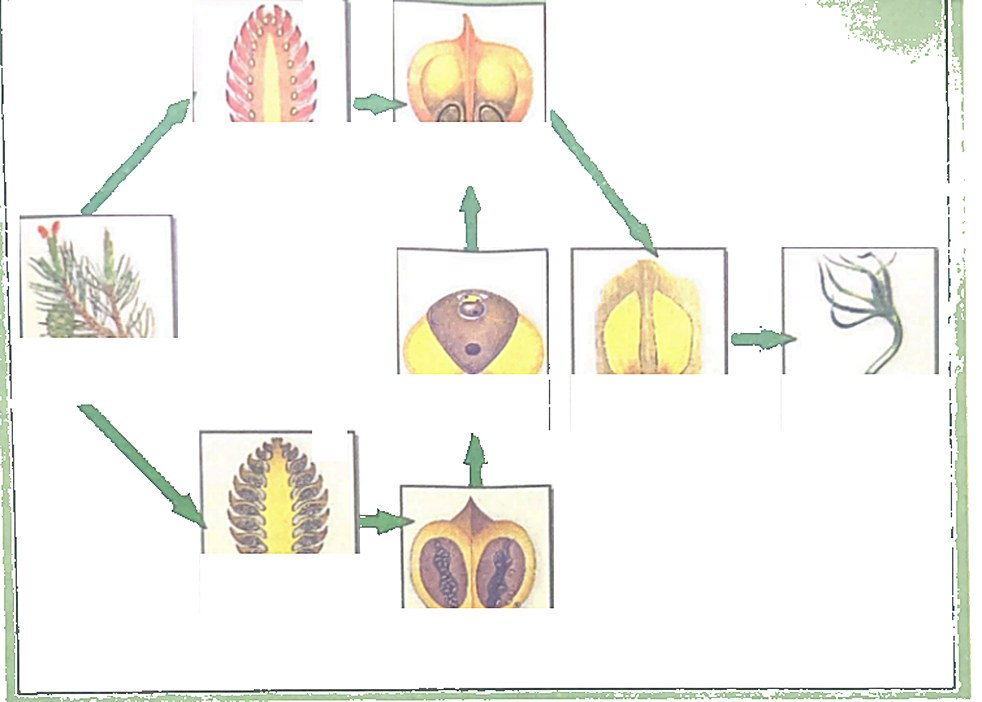
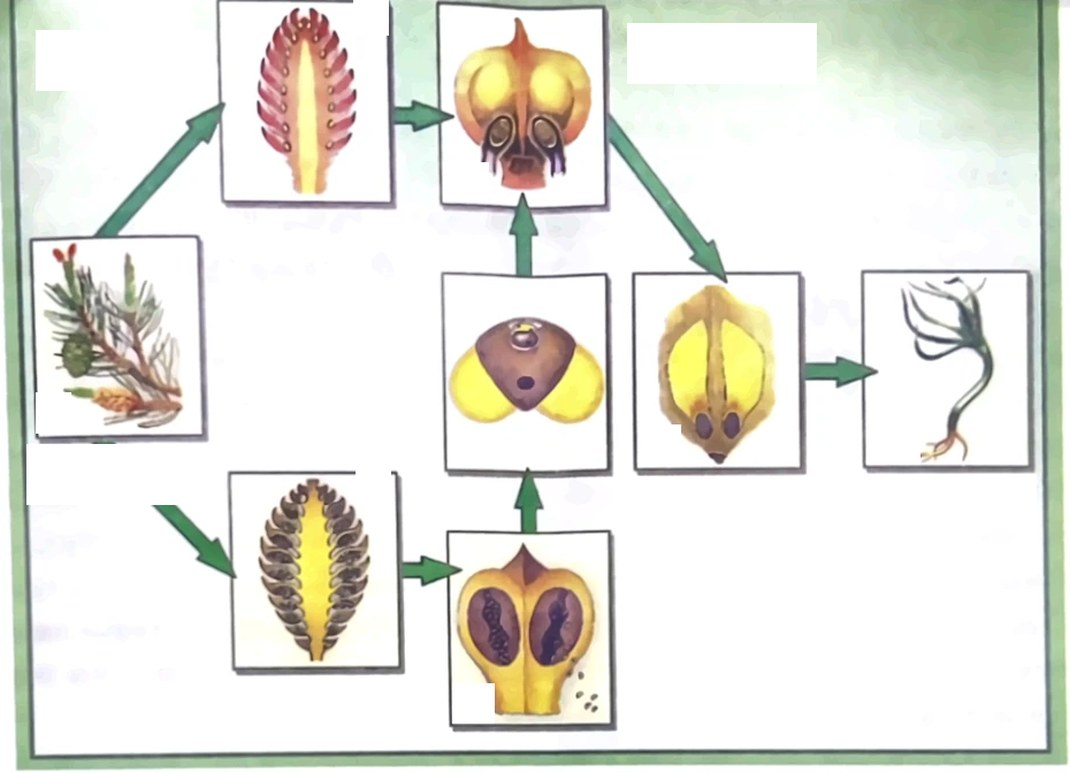
Суретпен жұмыс: «Қарағайдың көбеюі» суреті мұғалім жіберген анығырақ суретке ауыстырылды
Claude-Session: https://claude.ai/code/session_011AzLiSxkNsavkAqmMKmnLU

diff --git a/js/images.js b/js/images.js
@@ -24,7 +24,7 @@ window.IMAGE_TASKS = [
 {"id": "img-maize", "module": "botany", "title": "Жүгерінің аталық және аналық гүлшоғыры", "img": ["img/images/maize.jpg"], "options": ["Аталық гүлшоғыры", "Аналық гүлшоғыры"], "zones": [{"x": 3.59, "y": 6.88, "w": 33.7, "h": 13.12, "answer": 0}, {"x": 54.97, "y": 39.17, "w": 30.11, "h": 10.62, "answer": 1}]},
 {"id": "img-flower-scheme", "module": "botany", "title": "Гүлдің құрылысы (сызба)", "img": ["img/images/flower-scheme.jpg"], "options": ["Гүлсағақ", "Гүлтабан", "Тостаған жапырақша", "Күлте жапырақша", "Аталығы", "Аналығы"], "zones": [{"x": 56.45, "y": 10.86, "w": 38.42, "h": 11.14, "answer": 0}, {"x": 56.45, "y": 25.35, "w": 38.42, "h": 11.14, "answer": 1}, {"x": 56.45, "y": 39.83, "w": 38.42, "h": 11.14, "answer": 2}, {"x": 56.45, "y": 54.32, "w": 38.42, "h": 11.14, "answer": 3}, {"x": 56.45, "y": 68.8, "w": 38.42, "h": 11.14, "answer": 4}, {"x": 56.45, "y": 83.29, "w": 38.42, "h": 11.14, "answer": 5}]},
 {"id": "img-seed", "module": "botany", "title": "Дара және қос жарнақты тұқымның құрылысы", "img": ["img/images/seed.jpg"], "options": ["Тұқым қауызымен біріккен жемісқап", "Эндосперм", "Тұқымжарнағы", "Бүршікше", "Сабақша", "Тамырша", "Алғашқы бүршікше", "Алғашқы сабақша", "Алғашқы тамырша", "Тұқымжарнағы", "Тұқым қабығы"], "zones": [{"x": 9.32, "y": 3.31, "w": 12.83, "h": 31.13, "answer": 0}, {"x": 10.2, "y": 38.41, "w": 13.27, "h": 7.95, "answer": 1}, {"x": 7.24, "y": 58.28, "w": 17.43, "h": 7.95, "answer": 2}, {"x": 14.14, "y": 69.54, "w": 11.18, "h": 7.62, "answer": 3}, {"x": 14.14, "y": 76.82, "w": 9.98, "h": 6.95, "answer": 4}, {"x": 14.14, "y": 84.11, "w": 10.75, "h": 8.28, "answer": 5}, {"x": 57.68, "y": 18.54, "w": 11.4, "h": 14.57, "answer": 6}, {"x": 58.22, "y": 34.11, "w": 9.98, "h": 13.25, "answer": 7}, {"x": 56.25, "y": 48.68, "w": 12.17, "h": 12.58, "answer": 8}, {"x": 49.67, "y": 62.58, "w": 17.21, "h": 6.29, "answer": 9}, {"x": 60.42, "y": 72.85, "w": 8.66, "h": 15.56, "answer": 10}]},
-{"id": "img-pine", "module": "botany", "title": "Қарағайдың көбеюі", "img": ["img/images/pine.jpg"], "options": ["Өркеннің аналық және аталық бүрлері", "Аналық бүрдің жарылған кескіні", "Ұрықтанған ұрық қабыршағы", "Тозаң", "Екі тұқымды ұрық қабыршағы", "Қарағайдың өскіні", "Аталық бүрдің жарылған кескіні", "Тозаңның пісіп-жетілуі"], "zones": [{"x": 1.99, "y": 48.33, "w": 15.89, "h": 8.52, "answer": 0}, {"x": 19.6, "y": 17.59, "w": 15.89, "h": 8.52, "answer": 1}, {"x": 40.13, "y": 17.59, "w": 15.5, "h": 8.52, "answer": 2}, {"x": 40.4, "y": 53.52, "w": 15.23, "h": 7.78, "answer": 3}, {"x": 58.28, "y": 53.52, "w": 15.63, "h": 7.78, "answer": 4}, {"x": 79.74, "y": 53.52, "w": 15.63, "h": 7.78, "answer": 5}, {"x": 20.53, "y": 79.07, "w": 15.89, "h": 8.15, "answer": 6}, {"x": 40.79, "y": 86.85, "w": 15.5, "h": 8.15, "answer": 7}]},
+{"id": "img-pine", "module": "botany", "title": "Қарағайдың көбеюі", "img": ["img/images/pine.jpg"], "options": ["Өркеннің аналық және аталық бүрлері", "Аналық бүрдің жарылған кескіні", "Ұрықтанған ұрық қабыршағы", "Тозаң", "Екі тұқымды ұрық қабыршағы", "Қарағайдың өскіні", "Аталық бүрдің жарылған кескіні", "Тозаңның пісіп-жетілуі"], "zones": [{"x": 2.58, "y": 57.59, "w": 16.34, "h": 7.44, "answer": 0}, {"x": 3.44, "y": 4.02, "w": 16.34, "h": 7.44, "answer": 1}, {"x": 58.71, "y": 3.12, "w": 17.42, "h": 7.44, "answer": 2}, {"x": 21.72, "y": 44.49, "w": 18.92, "h": 7.44, "answer": 3}, {"x": 58.82, "y": 61.76, "w": 16.34, "h": 7.44, "answer": 4}, {"x": 80.32, "y": 61.46, "w": 16.34, "h": 7.44, "answer": 5}, {"x": 21.18, "y": 87.65, "w": 16.34, "h": 7.44, "answer": 6}, {"x": 58.71, "y": 83.18, "w": 17.42, "h": 7.44, "answer": 7}]},
 {"id": "img-moss-cycle", "module": "botany", "title": "Мүктердің даму циклі", "img": ["img/images/moss-cycle.jpg"], "options": ["Гаметофит", "Аталық", "Сперматозоид", "Өскінше", "Спора", "Аналық", "Жұмыртқа жасушасы", "Ұрықтану", "Спорангий", "Өркен", "Спорофит (гаметофиттен дамиды)", "Спорофит", "Зигота"], "zones": [{"x": 37.97, "y": 1.37, "w": 10.96, "h": 4.45, "answer": 0}, {"x": 33.45, "y": 6.16, "w": 8.14, "h": 4.11, "answer": 1}, {"x": 74.35, "y": 9.59, "w": 14.69, "h": 4.45, "answer": 2}, {"x": 17.74, "y": 15.24, "w": 13.33, "h": 5.31, "answer": 3}, {"x": 19.89, "y": 38.18, "w": 6.67, "h": 4.62, "answer": 4}, {"x": 40.68, "y": 41.27, "w": 8.02, "h": 4.45, "answer": 5}, {"x": 75.25, "y": 34.76, "w": 11.19, "h": 8.73, "answer": 6}, {"x": 81.58, "y": 45.55, "w": 11.64, "h": 5.82, "answer": 7}, {"x": 27.68, "y": 53.77, "w": 10.4, "h": 4.11, "answer": 8}, {"x": 35.93, "y": 60.45, "w": 6.44, "h": 3.94, "answer": 9}, {"x": 38.76, "y": 65.07, "w": 20.34, "h": 6.34, "answer": 10}, {"x": 39.1, "y": 74.32, "w": 13.33, "h": 4.45, "answer": 11}, {"x": 82.82, "y": 86.47, "w": 7.34, "h": 4.11, "answer": 12}]},
 {"id": "img-moss", "module": "botany", "title": "Көкек мүгі және оның көбеюі", "img": ["img/images/moss.jpg"], "options": ["Аналық өсімдік", "Аталық өсімдік", "Мүктің спора арқылы көбеюі", "Қақпағы ашылған қауашақ", "Жас мүктің өскіншесі"], "zones": [{"x": 35.66, "y": 10.02, "w": 33.16, "h": 7.13, "answer": 0}, {"x": 35.66, "y": 19.52, "w": 33.16, "h": 7.13, "answer": 1}, {"x": 35.66, "y": 29.03, "w": 33.16, "h": 7.13, "answer": 2}, {"x": 35.66, "y": 38.54, "w": 33.16, "h": 7.13, "answer": 3}, {"x": 35.66, "y": 48.05, "w": 33.16, "h": 7.13, "answer": 4}]},
 {"id": "img-fern", "module": "botany", "title": "Қырықжапырақ және оның даму айналымы", "img": ["img/images/fern.jpg"], "options": ["Қырықжапырақ (спорофит)", "Жапырақ астындағы спорангийлер", "Спорангийдің ашылып, спораның шашылуы", "Спораның өнуі", "Өскінше (гаметофит)", "Жас қырықжапырақ"], "zones": [{"x": 1.48, "y": 74.36, "w": 31.58, "h": 10.18, "answer": 0}, {"x": 34.38, "y": 74.36, "w": 31.58, "h": 10.18, "answer": 1}, {"x": 67.27, "y": 74.36, "w": 31.58, "h": 10.18, "answer": 2}, {"x": 1.48, "y": 86.0, "w": 31.58, "h": 10.18, "answer": 3}, {"x": 34.38, "y": 86.0, "w": 31.58, "h": 10.18, "answer": 4}, {"x": 67.27, "y": 86.0, "w": 31.58, "h": 10.18, "answer": 5}]},

diff --git a/index.html b/index.html
@@ -13,25 +13,25 @@
   <link rel="preconnect" href="https://fonts.googleapis.com">
   <link rel="preconnect" href="https://fonts.gstatic.com" crossorigin>
   <link href="https://fonts.googleapis.com/css2?family=Montserrat:wght@400;500;600;700;800&display=swap" rel="stylesheet">
-  <link rel="stylesheet" href="css/style.css?v=202611121726">
+  <link rel="stylesheet" href="css/style.css?v=202611121735">
 </head>
 <body>
   <div id="app"></div>
   <div id="modal-root"></div>
   <div id="toast-root" aria-live="polite"></div>
 
-  <script src="js/config.js?v=202611121726"></script>
-  <script src="js/questions.js?v=202611121726"></script>
-  <script src="js/tests/nagyz.js?v=202611121726"></script>
-  <script src="js/tests/naurz.js?v=202611121726"></script>
-  <script src="js/tests/uto.js?v=202611121726"></script>
-  <script src="js/tests/chapters.js?v=202611121726"></script>
-  <script src="js/plants.js?v=202611121726"></script>
-  <script src="js/notes.js?v=202611121726"></script>
-  <script src="js/content.js?v=202611121726"></script>
-  <script src="js/realubt.js?v=202611121726"></script>
-  <script src="js/images.js?v=202611121726"></script>
-  <script src="js/app.js?v=202611121726"></script>
+  <script src="js/config.js?v=202611121735"></script>
+  <script src="js/questions.js?v=202611121735"></script>
+  <script src="js/tests/nagyz.js?v=202611121735"></script>
+  <script src="js/tests/naurz.js?v=202611121735"></script>
+  <script src="js/tests/uto.js?v=202611121735"></script>
+  <script src="js/tests/chapters.js?v=202611121735"></script>
+  <script src="js/plants.js?v=202611121735"></script>
+  <script src="js/notes.js?v=202611121735"></script>
+  <script src="js/content.js?v=202611121735"></script>
+  <script src="js/realubt.js?v=202611121735"></script>
+  <script src="js/images.js?v=202611121735"></script>
+  <script src="js/app.js?v=202611121735"></script>
   <script>
   /* Жаңа нұсқа шықса, ескі index.html-ді кэштен алмасын: тексеріп, бетті жаңартады.
      Телефон экранына («Домой») қосылған сайт фонда тұрып қалады, сондықтан қайта ашылғанда және 5 минут сайын тексереді. */

diff --git a/js/app.js b/js/app.js
@@ -2281,7 +2281,7 @@
   if (!CLOUD) { dailyGreeting(); render(); }
   else {
     app.innerHTML = `<div class="boot"><img class="logo-mark" src="img/brand/icon-96.png" alt=""><p>Жүктелуде…</p></div>`;
-    import("./cloud.js?v=202611121726")
+    import("./cloud.js?v=202611121735")
       .then(() => window.Cloud.restore())
       .then(({ user, error }) => {
         cloudUser = user ? fillUser(user) : null;

diff --git a/tools/images/build_veg.py b/tools/images/build_veg.py
@@ -99,11 +99,11 @@ SP = [
   [("Тұқым қауызымен біріккен жемісқап", (86, 11, 201, 103)), ("Эндосперм", (94, 117, 213, 139)), ("Тұқымжарнағы", (67, 177, 224, 199)), ("Бүршікше", (130, 211, 230, 232)),
    ("Сабақша", (130, 233, 219, 252)), ("Тамырша", (130, 255, 226, 278)), ("Алғашқы бүршікше", (527, 57, 629, 99)), ("Алғашқы сабақша", (532, 104, 621, 142)),
    ("Алғашқы тамырша", (514, 148, 623, 184)), ("Тұқымжарнағы", (454, 190, 609, 207)), ("Тұқым қабығы", (552, 221, 629, 266))], []),
- ("pine", "i-010", "botany", "Қарағайдың көбеюі", (140, 0, 895, 540), (0, 0), 1.3, True,
-  [("Өркеннің аналық және аталық бүрлері", (156, 262, 274, 306)), ("Аналық бүрдің жарылған кескіні", (289, 96, 407, 140)), ("Ұрықтанған ұрық қабыршағы", (444, 96, 559, 140)),
-   ("Тозаң", (446, 290, 559, 330)), ("Екі тұқымды ұрық қабыршағы", (581, 290, 697, 330)), ("Қарағайдың өскіні", (743, 290, 859, 330)),
-   ("Аталық бүрдің жарылған кескіні", (296, 428, 414, 470)), ("Тозаңның пісіп-жетілуі", (449, 470, 564, 512))],
-  [(375, 2, 400, 22), (382, 330, 404, 352)]),
+ ("pine", "pine2", "botany", "Қарағайдың көбеюі", (115, 0, 1045, 672), (0, 0), 1.15, False,  # мұғалім кейін жіберген анығырақ сурет; ұяшықтар суреттердің жанындағы бос орында
+  [("Өркеннің аналық және аталық бүрлері", (140, 388, 290, 436)), ("Аналық бүрдің жарылған кескіні", (148, 28, 298, 76)), ("Ұрықтанған ұрық қабыршағы", (662, 22, 822, 70)),
+   ("Тозаң", (318, 300, 492, 348)), ("Екі тұқымды ұрық қабыршағы", (663, 416, 813, 464)), ("Қарағайдың өскіні", (863, 414, 1013, 462)),
+   ("Аталық бүрдің жарылған кескіні", (313, 590, 463, 638)), ("Тозаңның пісіп-жетілуі", (662, 560, 822, 608))],
+  [(148, 343, 174, 374), (424, 2, 450, 28), (502, 143, 537, 172), (506, 373, 546, 403), (676, 371, 704, 401), (870, 370, 912, 401), (426, 410, 452, 436), (510, 596, 542, 626)]),
  ("moss-cycle", "i-011", "botany", "Мүктердің даму циклі", (0, 0, 885, 584), (0, 0), 1.3, False,
   [("Гаметофит", (337, 9, 432, 33)), ("Аталық", (297, 37, 367, 59)), ("Сперматозоид", (659, 57, 787, 81)), ("Өскінше", (158, 90, 274, 119)), ("Спора", (177, 224, 234, 249)),
    ("Аналық", (361, 242, 430, 266)), ("Жұмыртқа жасушасы", (667, 204, 764, 253)), ("Ұрықтану", (723, 267, 824, 299)), ("Спорангий", (246, 315, 336, 337)),
